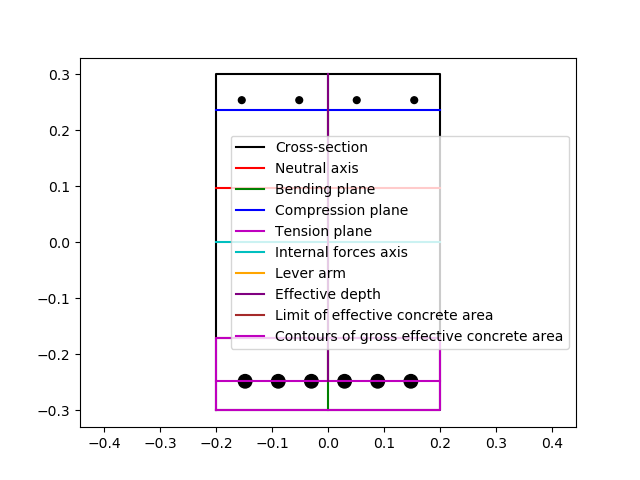
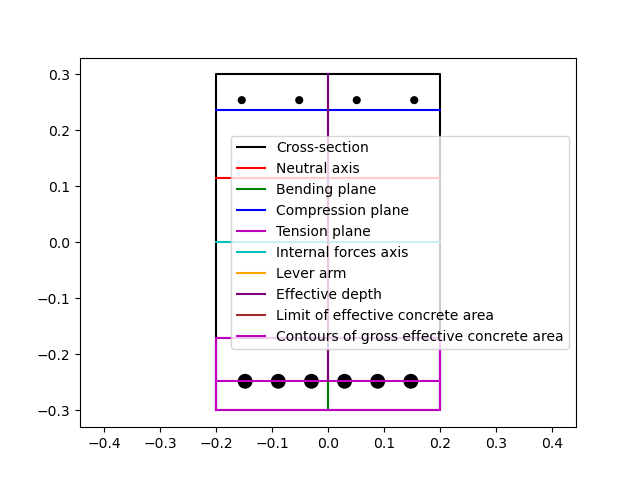
Update code.

Changed region(s): [[0.3438, 0.2812, 0.6875, 0.5312], [0.4062, 0.5625, 0.875, 0.7188]]

diff --git a/tutorials/XC_tutorial_003/tutorial003_script.py b/tutorials/XC_tutorial_003/tutorial003_script.py
@@ -103,21 +103,12 @@ zTopL=depth/2.0-cover-0.012/2.0
 reinfTopLayer.p1= geom.Pos2d(-yTopL,zTopL) # center point position of the starting rebar
 reinfTopLayer.p2= geom.Pos2d(yTopL,zTopL) # center point position of the starting rebar
 
-#Section material 
-#it is a generic section created to be assigned to the elements specified
-#its stress and strain state is neutral (if we ask this section for stress or 
-#strain values the result is always 0)
-materialHandler= preprocessor.getMaterialHandler
-sctFibers= materialHandler.newMaterial("fiber_section_3d","sctFibers")
-
-fiberSectionRepr= sctFibers.getFiberSectionRepr()
-fiberSectionRepr.setGeomNamed(geomSectFibers.name)
-sctFibers.setupFibers()
-
+# Create fiber section.
+sctFibers= geomSectFibers.getFiberSection3d("sctFibers")
 
 # Elements definition
 elements= preprocessor.getElementHandler
-elements.defaultMaterial='sctFibers'
+elements.defaultMaterial= sctFibers.name
 ele1= elements.newElement("ZeroLengthSection",xc.ID([nodA.tag,nodB.tag]))
 
 # Constraints
